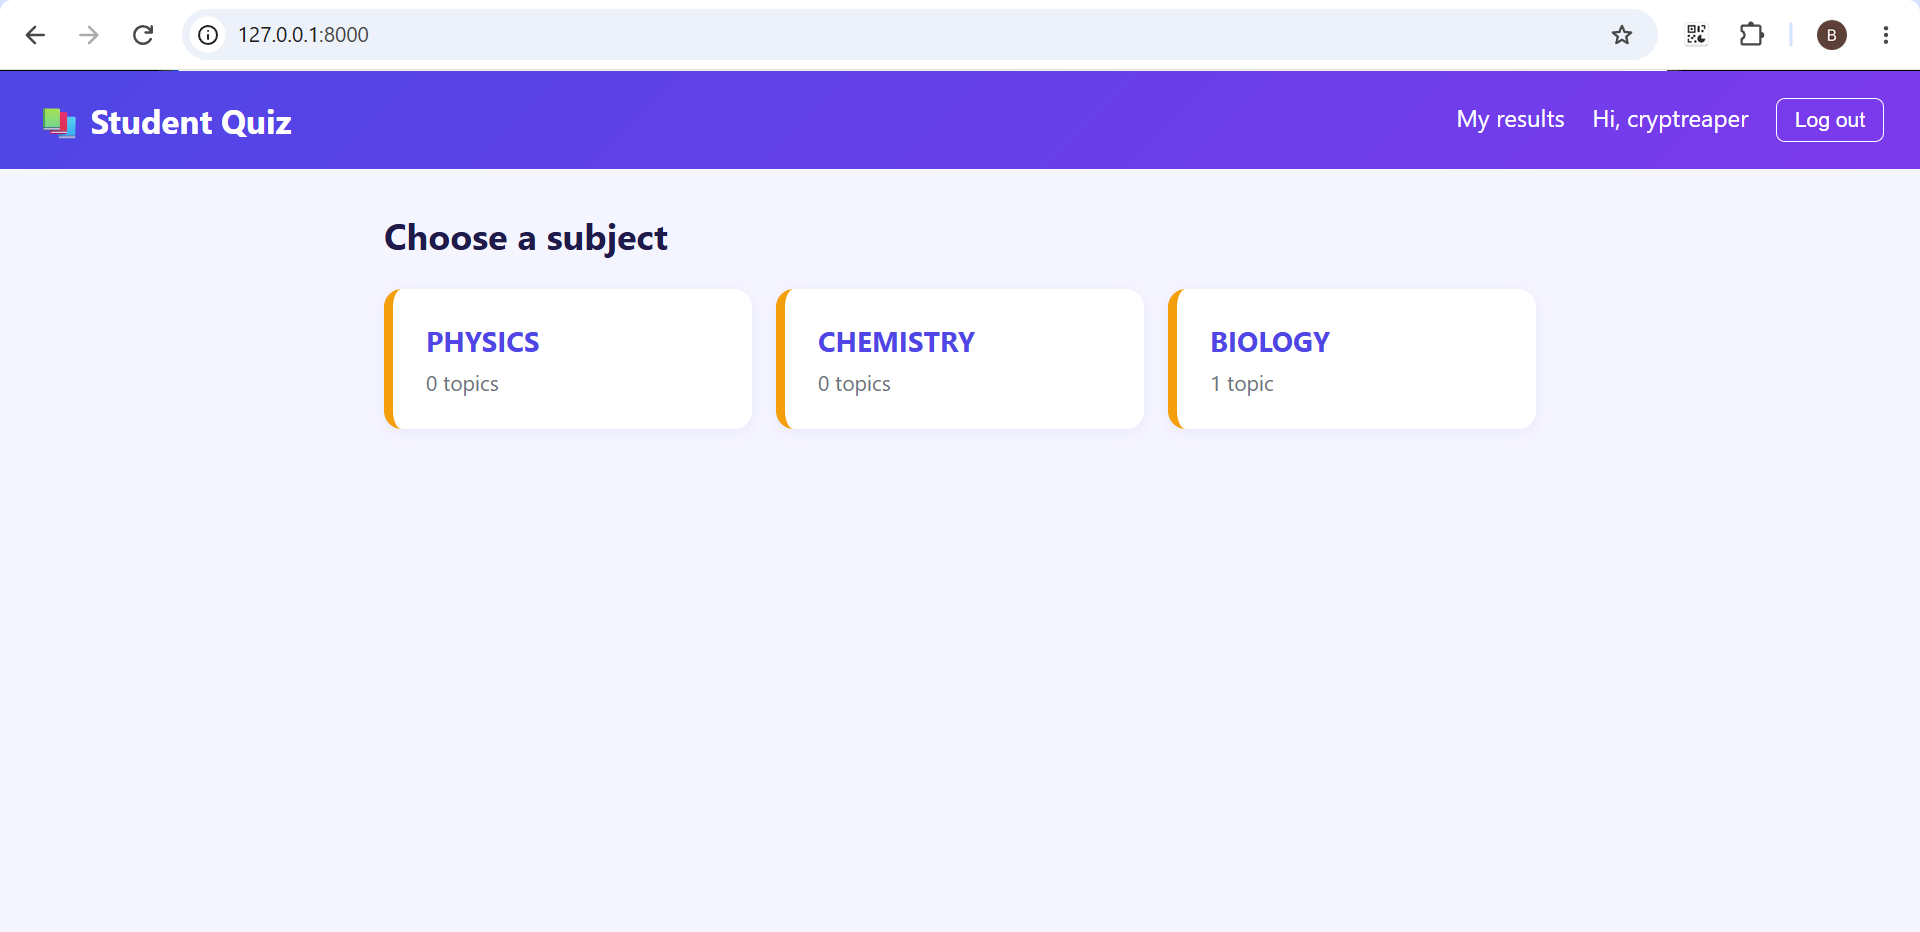
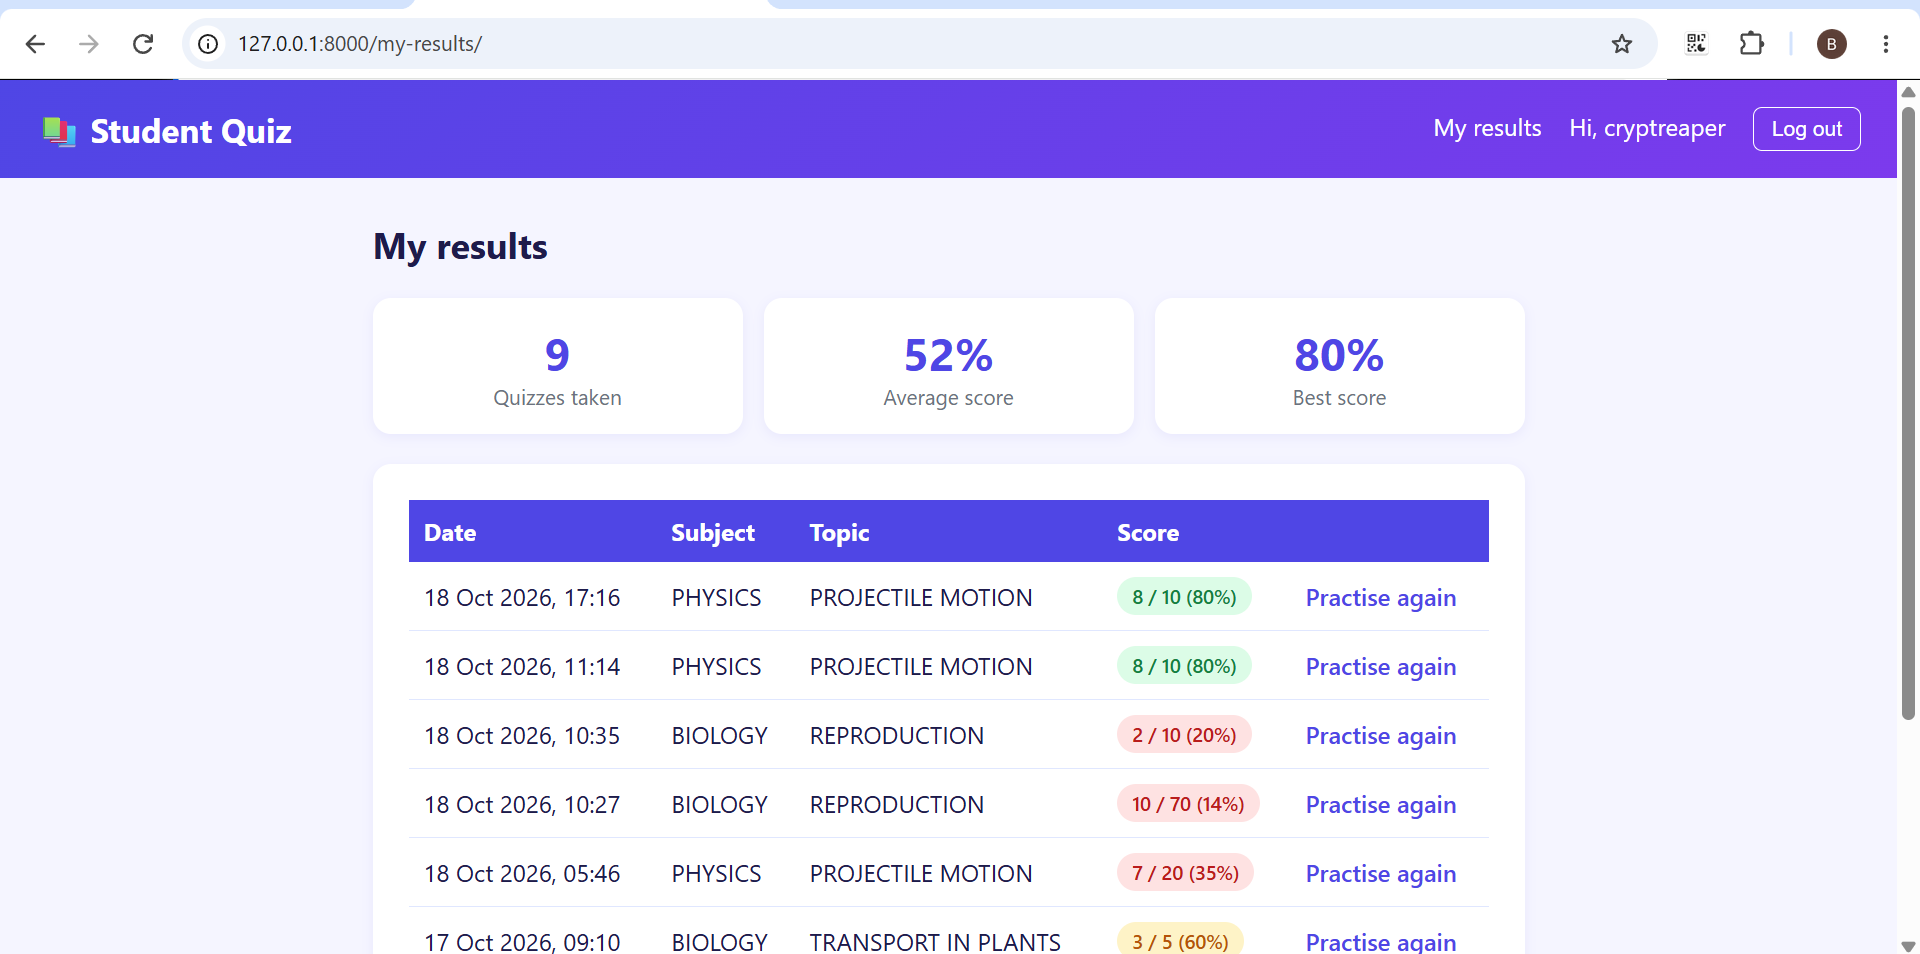
Update README with timer, random sets, progress and question bank

diff --git a/README.md b/README.md
@@ -1,28 +1,45 @@
 # Student Quiz
 
-A Django web app where students practice science subjects with multiple-choice quizzes. Students create an account, pick a subject and topic, answer the questions, and get an instant score with a full review. Every result is saved, so students can track their progress over time.
+A Django web app where students practise science subjects with timed, multiple-choice quizzes in the style of the ACSEE exam. Students create an account, pick a subject and a topic, choose how many questions to answer, and get an instant score with a full review of every answer. Every result is saved, so students can track their progress over time.
 
 ![Subjects page](screenshot-subjects.png)
+![Topics page](screenshot-topics.png)
+![Quiz page with timer](screenshot-quiz.png)
 ![Results page](screenshot-results.png)
 ![My results page](screenshot-my-results.png)
 
 ## Features
 
-- Student accounts: sign up, log in, and log out
-- Welcome popup that appears after logging in or signing up
-- Subjects (Physics, Chemistry, Biology), each with its own topics
-- Multiple-choice questions with one correct answer
+- Student accounts: sign up, log in, and log out, with a welcome popup
 - Quizzes and results are only available to logged-in students
-- Instant score and percentage after submitting
-- Review page showing your answer, the correct answer, and an explanation
-- Score history on a "My results" page, with colored badges for good, average, and low scores
-- Admin panel to add subjects, topics, questions (all four choices on one page), and to view every student's attempts
+- Subjects (Physics, Chemistry, Biology), each with several topics
+- Choose a quiz of 10 questions, 20 questions, or all the questions in a topic
+- Questions are picked at random and shown in a different order every time
+- Countdown timer (1 minute per question) that submits the quiz automatically when time runs out, with an option to pause it for relaxed practice
+- Instant score and percentage, with an encouraging message based on the result
+- Review page showing your answer, the correct answer, and an explanation for every question
+- Progress tracking: best score and number of attempts on each topic card
+- "My results" page with the number of quizzes taken, average score, best score, and a full history with colour-coded badges
+- Admin panel to add subjects, topics, and questions, and to view every student's attempts
+- Bulk import of questions from CSV files with one command
+
+## Question bank
+
+The repository includes question files written in ACSEE style, each with explanations that show how the answer is reached:
+
+| Subject | Topics |
+|---|---|
+| Physics | Projectile motion, Current electricity |
+| Chemistry | Chemical kinetics, Atomic structure and the periodic table |
+| Biology | Transport in plants, Reproduction, Genetics and inheritance |
+
+More topics are added regularly.
 
 ## Built with
 
 - Python
 - Django
-- HTML and CSS
+- HTML, CSS, and a little JavaScript (for the timer)
 
 ## How to run it
 
@@ -53,19 +70,41 @@ A Django web app where students practice science subjects with multiple-choice q
    python manage.py createsuperuser
 ```
 
-5. Start the server
+5. Load the questions (see the next section)
+
+6. Start the server
 
 ```bash
    python manage.py runserver
 ```
 
-6. Open http://127.0.0.1:8000/admin, log in, and add subjects, topics, and questions. Then visit http://127.0.0.1:8000, create a student account, and take a quiz.
+7. Open http://127.0.0.1:8000, create a student account, and take a quiz
+
+## Loading questions from CSV files
+
+Every `.csv` file in the project folder holds the questions for one or more topics. Load a file with:
+
+```bash
+python manage.py import_questions reproduction_questions.csv
+```
+
+The command creates the subject and topic if they do not exist (capital letters are ignored when matching), skips questions that are already in the database, and reports any row with a problem. It is safe to run more than once.
+
+Each file needs this header row, with one question per row:
+
+```
+subject,topic,question,option_a,option_b,option_c,option_d,correct,explanation
+```
+
+`correct` is the letter of the right answer (A, B, C, or D). Put any cell that contains a comma inside double quotes, and save the file as UTF-8.
+
+You can also add or edit questions one at a time in the admin panel at http://127.0.0.1:8000/admin.
 
 ## Future improvements
 
-- Random question order
-- Timed quizzes
-- Leaderboard for top scores
+- Optional fifth answer choice (A to E) to match the exam paper more closely
+- Diagrams and circuit drawings attached to questions
+- Leaderboard of top scores for each topic
 - Live deployment
 
 ## Author
